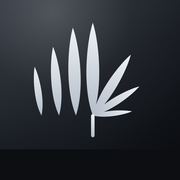
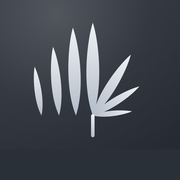
Icône Kanabiz : fond charbon uniforme (retire la bande noire du bas)
Le dégradé virait au quasi-noir en bas → impression de bande noire. Fond
smoked glass désormais uniforme (#333942→#262b33), coins équilibrés.
PNG régénérés + theme/background_color alignés.

Claude-Session: https://claude.ai/code/session_01HcjyRHAE4BVFEQHnyEntS3

diff --git a/index.html b/index.html
@@ -3,7 +3,7 @@
   <head>
     <meta charset="UTF-8" />
     <meta name="viewport" content="width=device-width, initial-scale=1.0, viewport-fit=cover" />
-    <meta name="theme-color" content="#0c0e12" />
+    <meta name="theme-color" content="#262b33" />
     <link rel="icon" href="/icone.svg" type="image/svg+xml" />
     <link rel="apple-touch-icon" sizes="180x180" href="/apple-touch-icon.png" />
     <link rel="manifest" href="/manifest.webmanifest" />